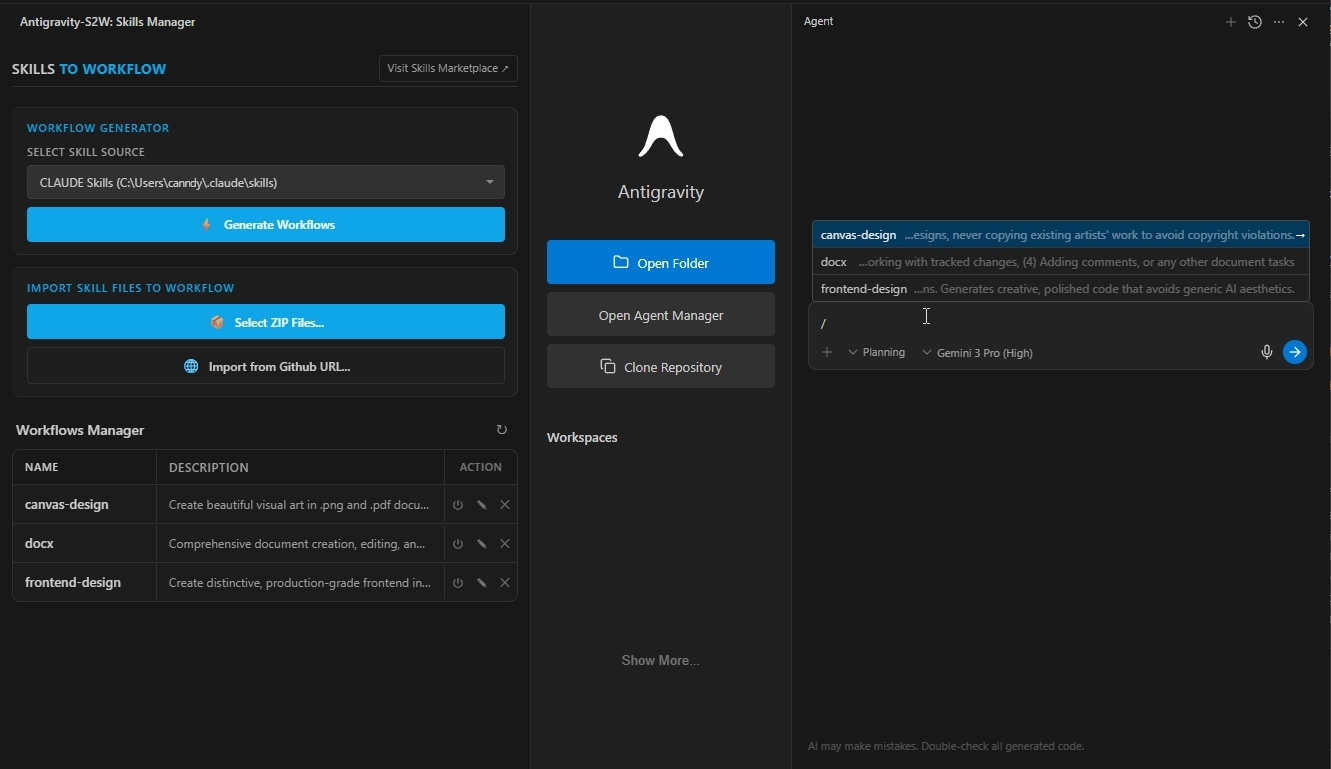
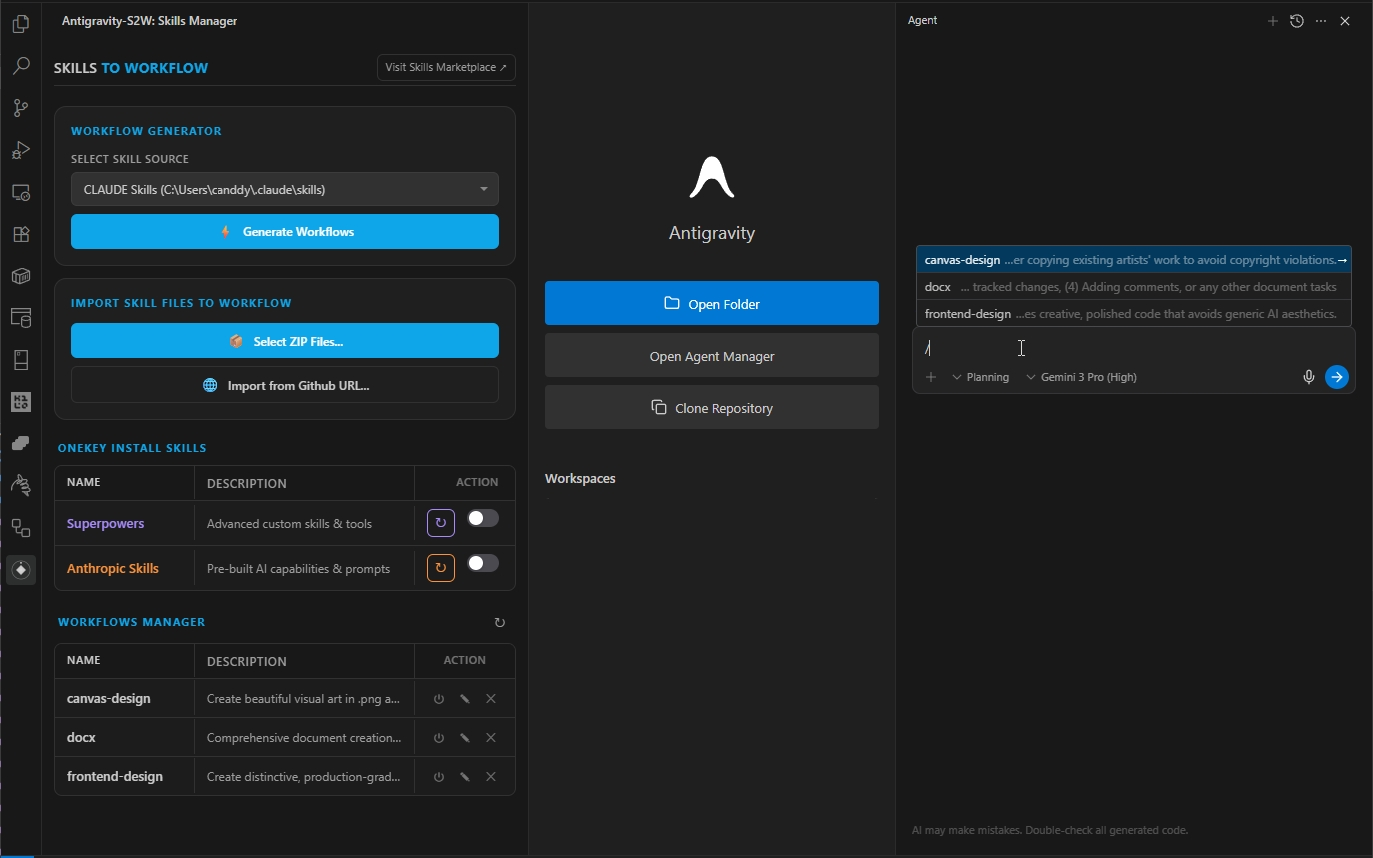
docs: update extension screenshot

diff --git a/CHANGELOG.md b/CHANGELOG.md
@@ -5,18 +5,21 @@ All notable changes to the "Antigravity Skill to Workflow" extension will be doc
 ## [0.1.0] - 2026-01-12
 
 ### Added
+
 - **OneKey Install Skills**: New table layout for quickly installing/toggling system skills (Superpowers, Anthropic Skills).
 - **Resizable Columns**: Users can now drag to resize the "Name" column in both Skills and Workflows tables.
 - **Global Rules Manager**: Automatic configuration of Antigravity Global Rules (`GEMINI.md`) upon activation.
 
 ### Changed
+
 - **UI Refinement**: Adopted "Refined Utility" design theme.
-    - Standardized button sizes (28px) and border radius (6px/12px).
-    - Unified header colors to primary blue.
-    - Improved grid alignment and spacing.
+  - Standardized button sizes (28px) and border radius (6px/12px).
+  - Unified header colors to primary blue.
+  - Improved grid alignment and spacing.
 - **Renamed Section**: "QUICKLY INSTALL SKILLS" is now "ONEKEY INSTALL SKILLS".
 - **Compact Toggles**: Reduced toggle switch size in the Skills table for a cleaner look.
 
 ### Fixed
+
 - **File Selection Bug**: Fixed an issue where cancelling the "Select ZIP Files" dialog would leave the UI in a frozen "Waiting" state.
 - **Button Deformation**: Fixed reset button aspect ratio issues.